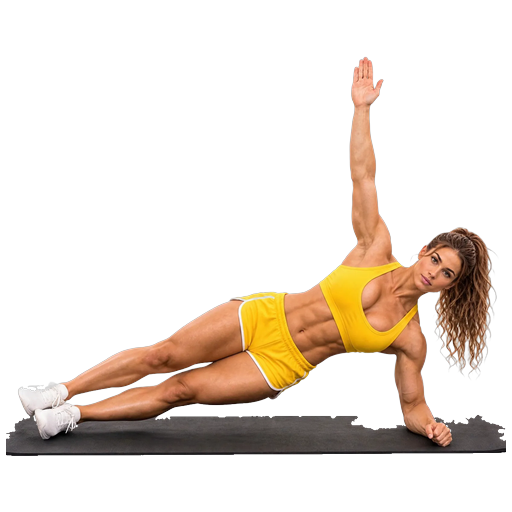
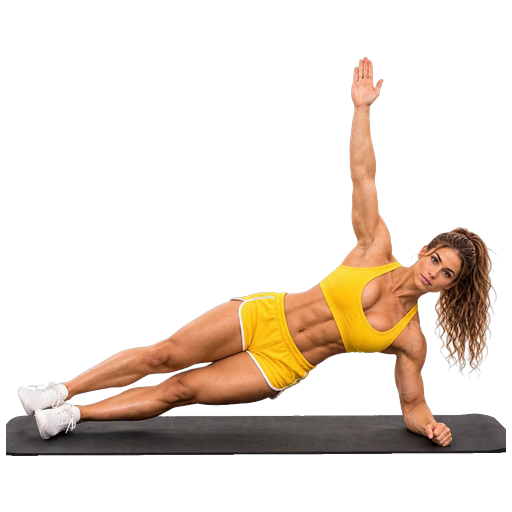
1.8.21 : détourage amélioré des 6 icônes de la 1.8.20
Claude-Session: https://claude.ai/code/session_01D2bERS7WBZgExNoVRodtwC

diff --git a/sw.js b/sw.js
@@ -2,7 +2,7 @@
 // APP_VERSION doit être incrémenté à chaque release (en même temps que
 // manifest.json) : le navigateur ne réinstalle le service worker que si
 // le contenu de ce fichier change.
-const APP_VERSION = '1.8.20';
+const APP_VERSION = '1.8.21';
 // 1.7.64 (co-auteur : Claude) : production (…/suivi-fitness/) et test (…/suivi-fitness/dev/) sont sur le même
 // domaine et partagent le stockage des caches : chaque version nomme ses caches d'après son dossier et ne
 // supprime que les siens (plus les anciens caches sans dossier, d'avant la 1.7.64).

diff --git a/CHANGELOG.md b/CHANGELOG.md
@@ -7,6 +7,14 @@ et ce projet respecte [Semantic Versioning](https://semver.org/spec/v2.0.0.html)
 
 ---
 
+## [1.8.21] - 2026-11-15
+### 🖼 Détourage des 6 icônes de la 1.8.20 amélioré (co-auteur : Claude)
+- **Gainage latéral, Pompes lestées** : bords du tapis nets et droits (ils étaient rongés), sans fond blanc collé ; liseré du short conservé.
+- **Dips triceps** : fond blanc retiré entre les pieds du banc.
+- **Les 6 icônes** : petits trous bouchés (baskets, banc, barre), avec les couleurs d'origine.
+
+---
+
 ## [1.8.20] - 2026-11-15
 ### 🖼 6 nouvelles icônes d'exercices (co-auteur : Claude)
 - Gainage latéral, Écarté haltère (vue de dessus), Écarté incliné haltères (de côté, sans fond blanc entre les montants du banc), Pompes lestées, Dips triceps, Extension triceps couché.
